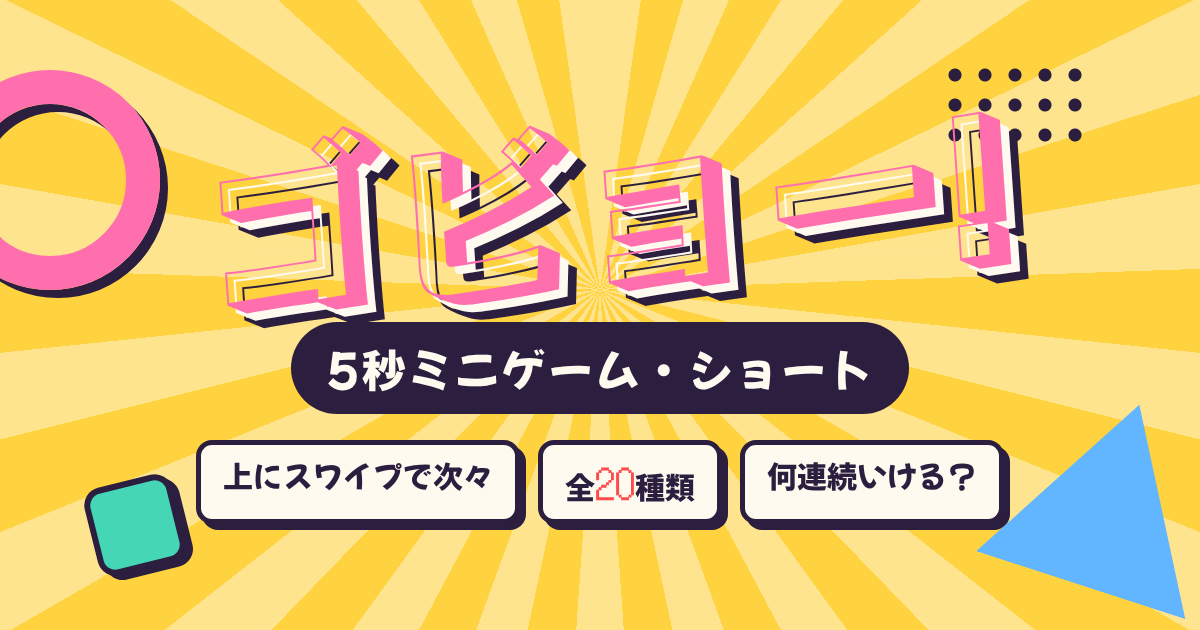
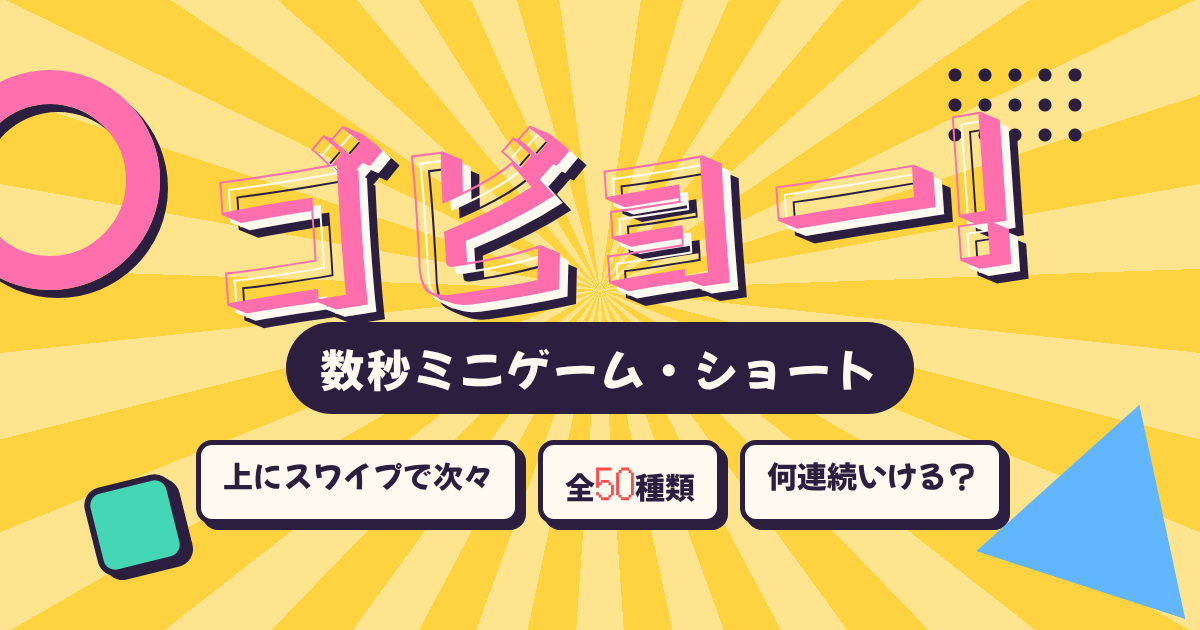
制限時間を7秒に、お題が見える時間を2秒に伸ばす
- 制限時間 5秒→7秒（DURATION）。「耐えれば勝ち」のゲームは難しくなるので5秒のまま（SURVIVE_MS）
- READY? の間（0.9秒→2秒）、お題を画面の真ん中に大きく表示
- ゲームから使える g.duration を追加（押すなの時間割を制限時間に合わせる）
- 「5秒」と言い切る文言とSNS用画像を「数秒」「全50種類」に変更

50種類を難易度0と5で無操作実行（100回）：JSエラーなし、制限時間超過なし。

Claude-Session: https://claude.ai/code/session_01TUCCv5NhESshBV9EsTvU1W

Changed region(s): [[0.2158, 0.5127, 0.7708, 0.6635], [0.4933, 0.754, 0.5242, 0.7841]]

diff --git a/public/js/app.js b/public/js/app.js
@@ -2,8 +2,9 @@
   "use strict";
 
   // ---------- 設定 ----------
-  const DURATION = 5000; // 1ゲームの制限時間（ミリ秒）
-  const READY_MS = 900; // 「READY?」を見せる時間
+  const DURATION = 7000; // 1ゲームの制限時間（ミリ秒）。時間内にやりとげるタイプのゲーム
+  const SURVIVE_MS = 5000; // 「耐えれば勝ち」タイプ（timeout: "win"）のゲームは、長くすると難しくなるので別に決める
+  const READY_MS = 2000; // 「READY?」とお題を大きく見せる時間（ミリ秒）
   const GO_MS = 350; // 「GO!」を見せる時間
   const AUTO_NEXT_MS = 1500; // 結果のあと自動で次へ進むまで（0で自動送りなし）
   const LEVEL_EVERY = 4; // 何COMBOごとに難しくなるか
@@ -200,9 +201,11 @@
     ctl.fuseBar.style.transform = "scaleX(1)";
   }
 
-  function startFuse(ctl) {
+  const limitOf = (game) => (game.timeout === "win" ? SURVIVE_MS : DURATION);
+
+  function startFuse(ctl, ms) {
     void ctl.fuseBar.offsetWidth;
-    ctl.fuseBar.style.transition = `transform ${DURATION}ms linear`;
+    ctl.fuseBar.style.transition = `transform ${ms}ms linear`;
     ctl.fuseBar.style.transform = "scaleX(0)";
   }
 
@@ -228,7 +231,7 @@
     ctl.stage.replaceChildren();
     ctl.inst.textContent = ctl.game.instruction(levelNow(), ctl.config);
     resetFuse(ctl);
-    showOverlay(ctl, "ready", "READY?");
+    showOverlay(ctl, "ready", "READY?", ctl.inst.textContent); // お題を大きく見せる
     later(ctl, READY_MS, () => showOverlay(ctl, "go", "GO!"));
     later(ctl, READY_MS + GO_MS, () => play(ctl));
   }
@@ -244,14 +247,15 @@
     ctl.status = "play";
     ctl.section.classList.add("is-playing");
     ctl.overlay.hidden = true;
-    startFuse(ctl);
+    const limit = limitOf(ctl.game);
+    startFuse(ctl, limit);
     const g = makeApi(ctl, ctl.run);
     try {
       ctl.game.setup(g);
     } catch (err) {
       console.error(err);
     }
-    later(ctl, DURATION, () => g.end(ctl.game.timeout === "win"));
+    later(ctl, limit, () => g.end(ctl.game.timeout === "win"));
   }
 
   function finish(ctl, won) {
@@ -380,6 +384,7 @@
 
     const api = {
       stage,
+      duration: limitOf(ctl.game) / 1000, // このゲームの制限時間（秒）
       level: levelNow(),
       config: ctl.config,
       el,
@@ -498,8 +503,8 @@
     best.append("いまのベスト ", bestNum, " COMBO");
     const share = makeShareRow(() =>
       state.best > 0
-        ? `ゴビョー！で${state.best}連続クリア！\n5秒ミニゲーム、きみは何連続いける？`
-        : "5秒ミニゲーム「ゴビョー！」\nきみは何連続クリアできる？"
+        ? `ゴビョー！で${state.best}連続クリア！\n数秒ミニゲーム、きみは何連続いける？`
+        : "数秒ミニゲーム「ゴビョー！」\nきみは何連続クリアできる？"
     );
 
     const links = el("p", "cm-links");

diff --git a/public/index.html b/public/index.html
@@ -4,11 +4,11 @@
   <meta charset="utf-8">
   <meta name="viewport" content="width=device-width, initial-scale=1, viewport-fit=cover">
   <title>ゴビョー！</title>
-  <meta name="description" content="上にスワイプすると次々出てくる、5秒ミニゲームのショート。連続クリアでコンボをのばそう。">
+  <meta name="description" content="上にスワイプすると次々出てくる、数秒ミニゲームのショート。連続クリアでコンボをのばそう。">
   <meta name="theme-color" content="#ffd23f">
   <meta property="og:type" content="website">
   <meta property="og:title" content="ゴビョー！">
-  <meta property="og:description" content="上にスワイプすると次々出てくる、5秒ミニゲームのショート。きみは何連続クリアできる？">
+  <meta property="og:description" content="上にスワイプすると次々出てくる、数秒ミニゲームのショート。きみは何連続クリアできる？">
   <meta name="twitter:card" content="summary_large_image">
   <meta property="og:url" content="https://gobyo.kento-dev.workers.dev/">
   <meta property="og:image" content="https://gobyo.kento-dev.workers.dev/ogp.png">
@@ -40,11 +40,11 @@
 
       <div class="title-card">
         <h1 class="logo">ゴビョー!</h1>
-        <p class="tagline">5秒ミニゲーム・ショート</p>
+        <p class="tagline">数秒ミニゲーム・ショート</p>
 
         <ol class="howto">
           <li>上にスワイプすると、次のゲームが始まる</li>
-          <li>お題を5秒以内にクリアしよう</li>
+          <li>お題を見て、時間内にクリアしよう</li>
           <li>連続クリアでCOMBOがのびて、だんだん難しくなる</li>
         </ol>
 

diff --git a/public/css/style.css b/public/css/style.css
@@ -385,6 +385,18 @@ ol { padding: 0; list-style: none; }
   font: 1.15rem var(--font-dot);
 }
 .ov-sub:empty { display: none; }
+/* READY?の間は、お題を大きく真ん中に出す */
+.overlay.is-ready { background: color-mix(in srgb, var(--cream) 88%, transparent); gap: 14px; }
+.overlay.is-ready .ov-sub {
+  max-width: 90%;
+  padding: 10px 16px;
+  border-radius: 18px;
+  background: var(--yellow);
+  box-shadow: 4px 4px 0 var(--ink);
+  font: clamp(1.25rem, 6.4vw, 1.7rem)/1.4 var(--font-pop);
+  text-wrap: balance;
+  word-break: auto-phrase;
+}
 .overlay.is-go .ov-main { color: var(--mint); text-shadow: 5px 5px 0 var(--ink); }
 .overlay.is-clear { background: var(--yellow); }
 .overlay.is-clear::before {

diff --git a/public/js/games.js b/public/js/games.js
@@ -263,7 +263,7 @@ const GAMES = [
       g.stage.append(btn, tease);
       const lines = ["がまん、がまん…", "ちょっとだけなら…？", "今だけ押していいよ！", "…ほんとだよ？"];
       lines.forEach((text, i) => {
-        g.after(1000 + i * 950, () => {
+        g.after((1 + (i * 0.95 * g.duration) / 5) * 1000, () => {
           tease.textContent = text;
           if (i === 2) btn.textContent = "押して！";
         });

diff --git a/README.md b/README.md
@@ -1,18 +1,18 @@
 # ゴビョー！
 
-上にスワイプすると次々に出てくる、**5秒ミニゲームのショート**です。
+上にスワイプすると次々に出てくる、**数秒ミニゲームのショート**です。
 YouTubeショートのように縦スワイプで次のゲームへ進み、ゲームによっては横スワイプで操作します。
 見た目は昭和レトロ〜80年代のポップ（水玉、サンバースト、ドット文字、テレビのCM）です。
 
 ## 遊び方
 
 1. タイトルから上にスワイプ（または「上にスワイプでスタート」を押す）
-2. 「READY? → GO!」のあと、お題を5秒以内にクリア
+2. 「READY?」の約2秒間、お題が大きく出る。「GO!」のあと、時間内（7秒。耐えるタイプは5秒）にクリア
 3. 結果が出ると自動で次のゲームへ（ミスしたときは「もう一回」でやり直しも可能）
 4. 連続クリアでCOMBOがのび、4COMBOごとに少しずつ難しくなる
 5. 8ゲームごとに「CM」画面が入り、ベスト記録をX・LINEでシェアできる
 
-ゲーム中の5秒間は縦スクロールが止まり、誤って次へ流れないようになっています。
+ゲーム中は縦スクロールが止まり、誤って次へ流れないようになっています。
 パソコンでは ↑↓キーで移動、←→キー・スペースでゲーム操作ができます。
 
 ## 入っているゲーム（50種類）
@@ -101,7 +101,8 @@ wrangler.jsonc             Cloudflare への公開設定（Worker名・公開フ
 
 調整用の数字は `public/js/app.js` の先頭にまとまっています。
 
-- `DURATION`：制限時間（5000ミリ秒）
+- `DURATION`：制限時間（7000ミリ秒）。「耐えれば勝ち」のゲームは `SURVIVE_MS`（5000ミリ秒）
+- `READY_MS`：「READY?」とお題を大きく見せる時間（2000ミリ秒）
 - `AUTO_NEXT_MS`：結果のあと自動で次へ進むまでの時間（0で自動送りなし）
 - `CM_EVERY`：何ゲームごとにCM画面を挟むか
 
